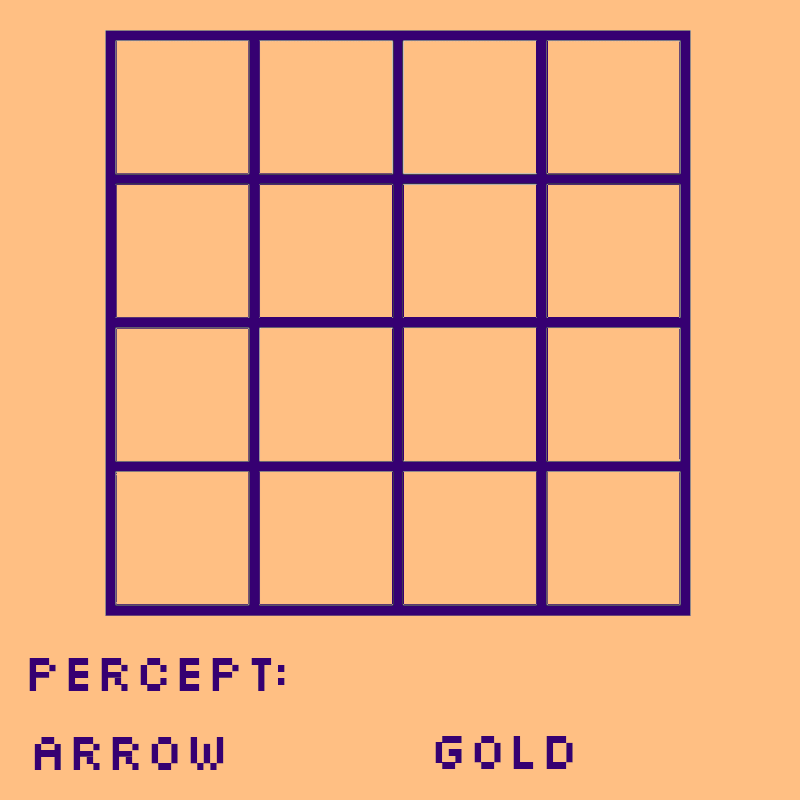
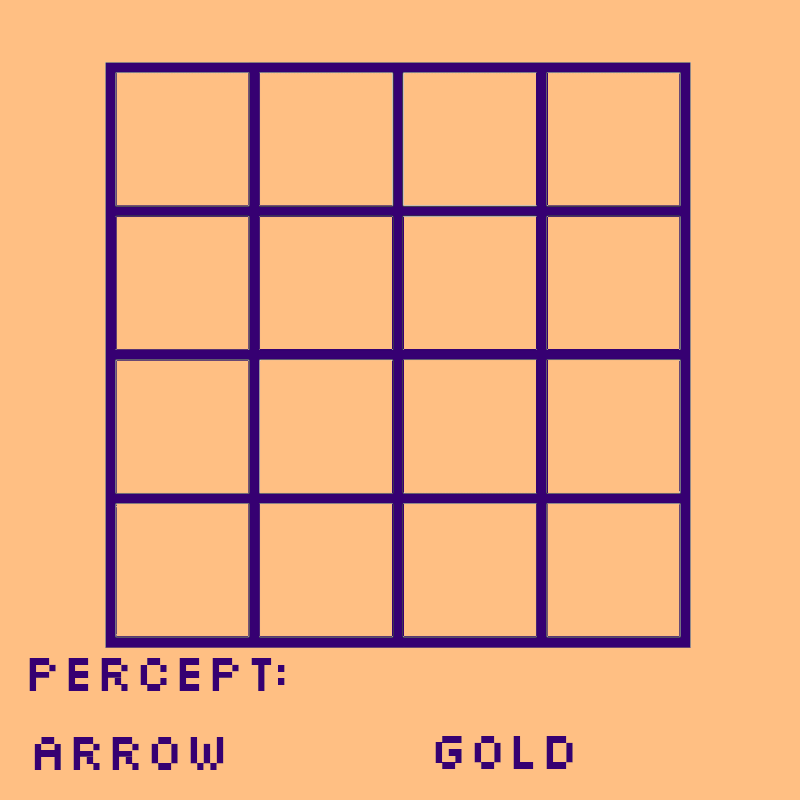
action display and a better bubble

diff --git a/Wumpus.py b/Wumpus.py
@@ -10,10 +10,10 @@ WINDOW_WIDTH = 800
 WINDOW_HEIGHT = 800
 
 GRID_ROWS = {
-  1 : 475,
-  2 : 330,
-  3 : 187,
-  4 : 42
+  1 : 528,
+  2 : 383,
+  3 : 240,
+  4 : 95
 }
 
 GRID_COLS = {
@@ -43,6 +43,7 @@ class WumpusWorld:
     self.escape = False
     self.ammo = 1
     self.died = False
+    self.action = None
     self.__load_images()
     self.__load_screen()
     self.__init_game()
@@ -116,6 +117,11 @@ class WumpusWorld:
     percepts = self.main_font.render(','.join(p_string), 1, (54, 00, 114))
     self.screen.blit(percepts, (300, 649))
 
+    # Draw Action
+    if self.action:
+      a_string = self.main_font.render(self.action, 1, (54, 00, 114))
+      self.screen.blit(a_string, (105, 15))
+
     pygame.display.update()
     pygame.time.delay(250)
 
@@ -166,6 +172,7 @@ class WumpusWorld:
             if event.type == pygame.QUIT:
                 exit()
     assert action in self.LEGAL_MOVES, "Illegal Action"
+    self.action = action
     self.observation[3:] = ["None", "None"]
     self.moves.append(action)
     self.__execute_action(action)
